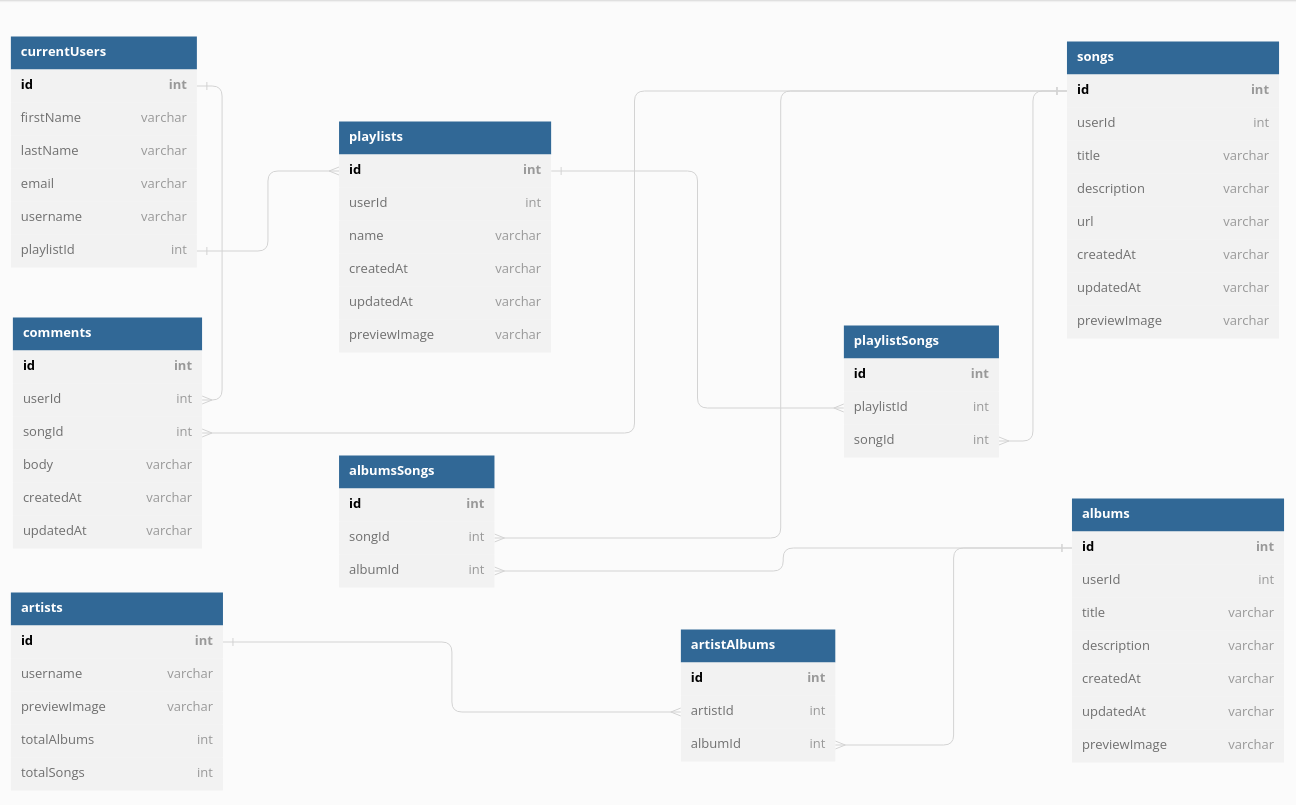
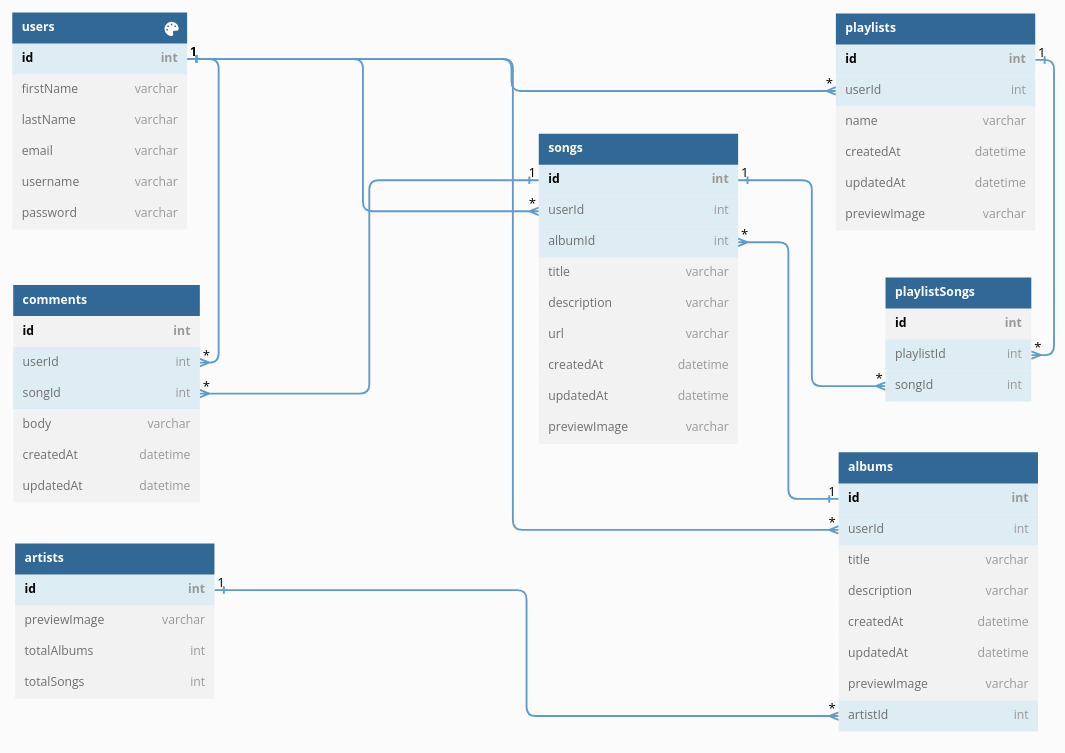
Update schema and dbdiagram

diff --git a/dbdiagram/diagram.md b/dbdiagram/diagram.md
@@ -1,42 +1,38 @@
-Table currentUsers {
+Table users {
   id int [pk, increment]
   firstName varchar
   lastName varchar
-  email varchar
-  username varchar
-  playlistId int [ref: < playlists.id]
+  email varchar [not null, unique]
+  username varchar [not null, unique]
+  password varchar [not null]
 }
 
 Table artists {
   id int [pk, increment]
-  username varchar
   previewImage varchar
-  //albumId int [ref: < albums.id]
   totalAlbums int 
   totalSongs int
 }
 
 Table songs {
   id int [pk, increment]
-  userId int
-  //albumId int  [ref: < albums.id]
-  title varchar
+  userId int [ref: > users.id, not null]
+  albumId int  [ref: > albums.id, null]
+  title varchar [not null]
   description varchar
-  url varchar
-  createdAt varchar
-  updatedAt varchar 
+  url varchar [not null]
+  createdAt datetime
+  updatedAt datetime
   previewImage varchar
 }
 
 Table playlists {
   id int [pk, increment]
-  userId int
+  userId int  [ref: > users.id]
   name varchar
-  createdAt varchar
-  updatedAt varchar
+  createdAt datetime
+  updatedAt datetime
   previewImage varchar
-  // albumId int [ref: > songs.id]
-  // songId int [ref: < songs.id]
 }
 
 // joins table
@@ -48,34 +44,20 @@ table playlistSongs {
 
 table comments {
   id int [pk, increment]
-  userId int [ref: > currentUsers.id]
+  userId int [ref: > users.id]
   songId int [ref: > songs.id]
   body varchar 
-  createdAt varchar
-  updatedAt varchar
+  createdAt datetime
+  updatedAt datetime
 }
 
 table albums {
   id int [pk, increment]
-  userId int
+  userId int [ref: > users.id]
   title varchar
   description varchar
-  createdAt varchar
-  updatedAt varchar
+  createdAt datetime
+  updatedAt datetime
   previewImage varchar
-  //songId int [ref: < songs.id]
-}
-
-// joins table
-table albumsSongs {
-  id int [pk, increment]
-  songId int [ref: > songs.id]
-  albumId int [ref: > albums.id]
-}
-
-// joins table
-table artistAlbums {
-  id int [pk, increment]
-  artistId int [ref: > artists.id]
-  albumId int [ref: > albums.id]
+  artistId int [ref: > artists.id, not null]
 }
